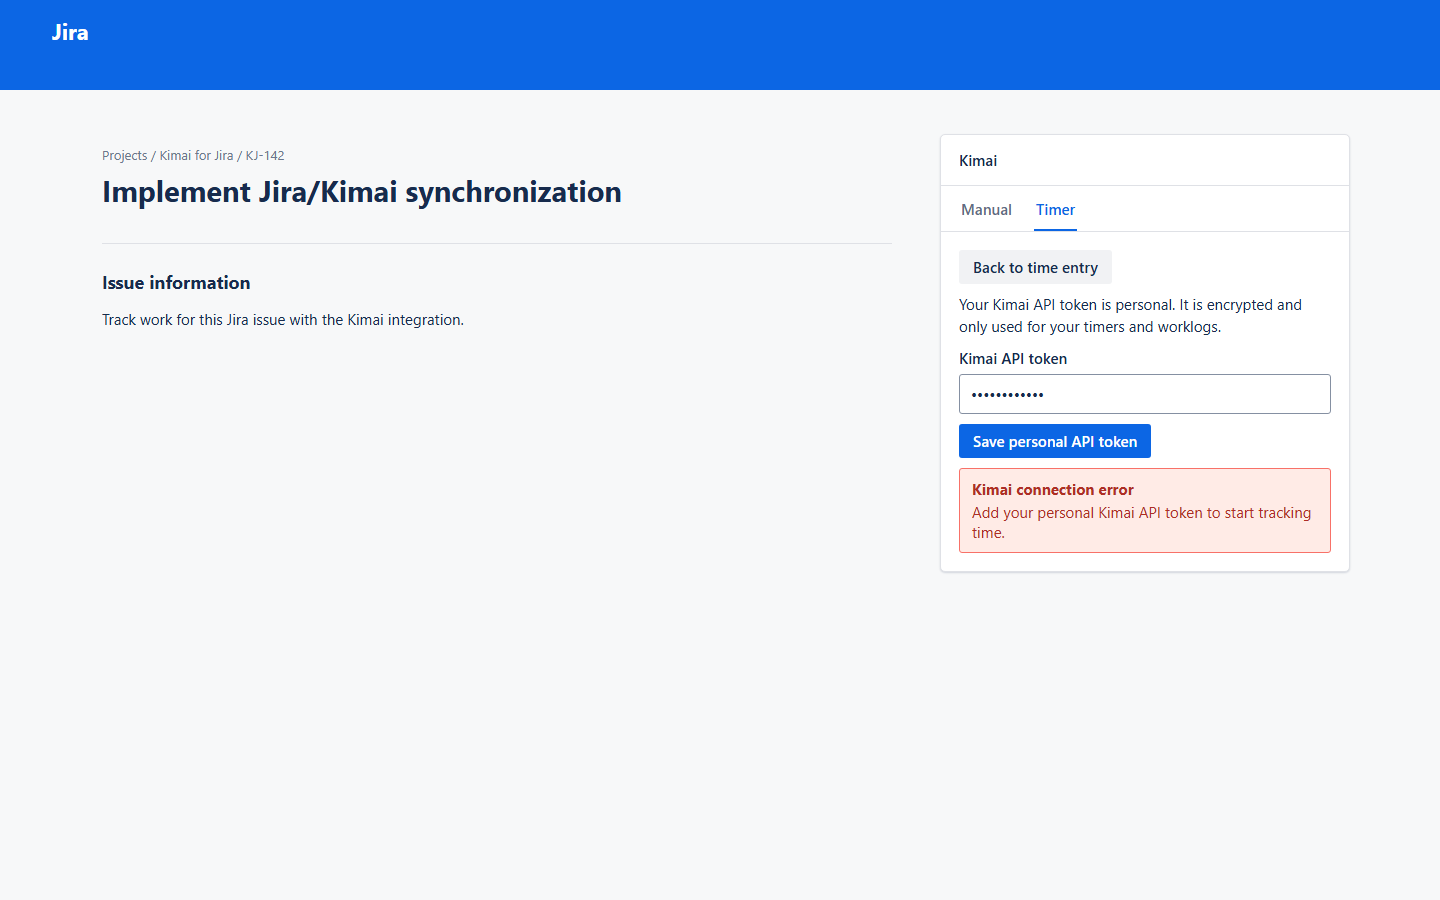
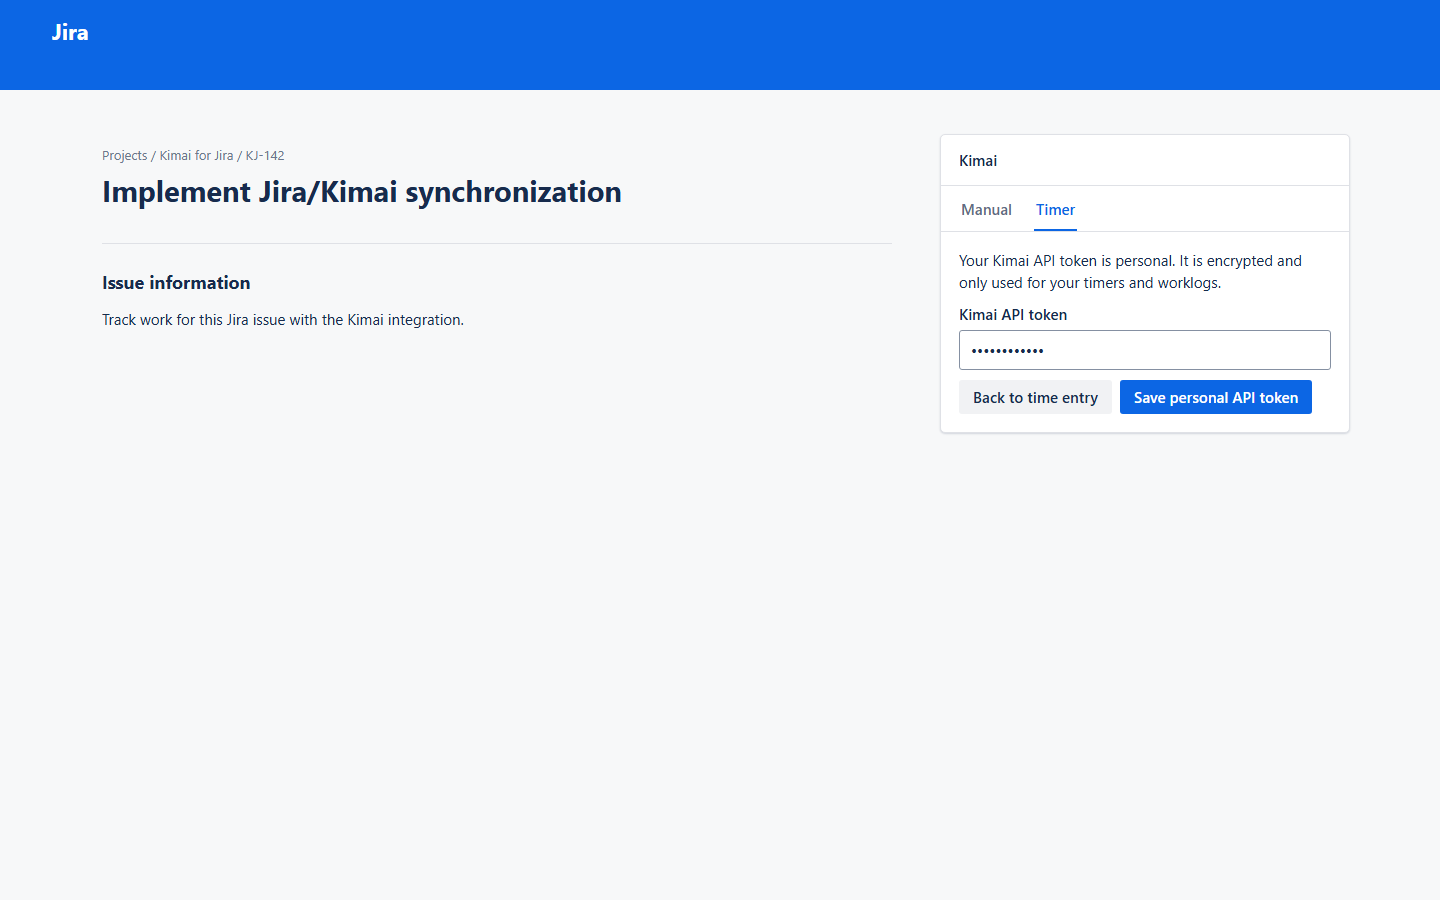
fix(connection): guide first-time setup

Changed region(s): [[0.6562, 0.4044, 0.9375, 0.5911], [0.6562, 0.28, 0.9062, 0.4044]]

diff --git a/src/frontend/issue-context/IssueContextView.tsx b/src/frontend/issue-context/IssueContextView.tsx
@@ -195,7 +195,7 @@ export const IssueContextView = ({
                 hasPersonalToken={false}
                 isManagingConnection={isManagingConnection}
                 isPending={isPersonalConnectionPending}
-                message={personalConnectionMessage ?? 'Add your personal Kimai API token to start tracking time.'}
+                message={personalConnectionMessage}
                 onManage={onManageConnection}
                 onBack={onConnectionBack}
                 onReset={onResetPersonalToken}
@@ -350,7 +350,12 @@ function ManualTimeEntry({
         <Label labelFor="manual-total-duration">Total duration</Label>
         <Textfield id="manual-total-duration" isDisabled value={totalDuration} />
       </FormSection>
-      {blockingReason && <Text>Add time is unavailable: {blockingReason}</Text>}
+      {!state.personalTokenConfigured && (
+        <SectionMessage appearance="warning" title="Connect Kimai before adding time">
+          Add your personal Kimai API token to enable manual time entries.
+          <Button appearance="subtle" onClick={onManageConnection}>Connect Kimai</Button>
+        </SectionMessage>
+      )}
       <Tooltip content={blockingReason ?? 'Add this time entry to Kimai.'}>
         <Box>
           <LoadingButton
@@ -432,7 +437,6 @@ function PersonalKimaiConnection({
   }
   return (
     <Stack space="space.100">
-      <Button appearance="subtle" isDisabled={isPending} onClick={onBack}>Back to time entry</Button>
       <Text>Your Kimai API token is personal. It is encrypted and only used for your timers and worklogs.</Text>
       <FormSection>
         <Label labelFor="personal-kimai-token">Kimai API token</Label>
@@ -443,7 +447,10 @@ function PersonalKimaiConnection({
           onChange={(event: { target: { value?: unknown } }) => onTokenChange(String(event.target.value ?? ''))}
         />
       </FormSection>
-      <LoadingButton appearance="primary" isDisabled={isPending || !token} isLoading={isPending} onClick={onSave}>Save personal API token</LoadingButton>
+      <Inline space="space.100">
+        <Button appearance="subtle" isDisabled={isPending} onClick={onBack}>Back to time entry</Button>
+        <LoadingButton appearance="primary" isDisabled={isPending || !token} isLoading={isPending} onClick={onSave}>Save personal API token</LoadingButton>
+      </Inline>
       {hasPersonalToken && <Button isDisabled={isPending} onClick={onReset}>Reset API key</Button>}
       {message && <SectionMessage appearance={message.startsWith('Connected') ? 'success' : 'error'} title={message.startsWith('Connected') ? 'Kimai connected' : 'Kimai connection error'}>{message}</SectionMessage>}
     </Stack>

diff --git a/src/frontend/issue-context/index.tsx b/src/frontend/issue-context/index.tsx
@@ -85,6 +85,10 @@ const App = () => {
         setRunningTimesheet(timerState.runningTimesheet);
         setSelectedKimaiCustomerId(timerState.defaultKimaiCustomerId);
         setManualDescription(defaultManualDescription(timerState));
+        if (!timerState.personalTokenConfigured) {
+          setActiveTab('timer');
+          setIsManagingConnection(true);
+        }
       })
       .catch(() => setError('Unable to load the Kimai timer status.'));
   }, []);
@@ -170,6 +174,7 @@ const App = () => {
       setManualDescription(defaultManualDescription(nextState));
       setPersonalApiToken('');
       setIsManagingConnection(false);
+      setActiveTab('manual');
       setPersonalConnectionMessage(`Connected to Kimai as ${result.user?.username ?? 'your user'}.`);
     } catch (connectionError) {
       setPersonalConnectionMessage(`Unable to save your Kimai API token: ${String(connectionError)}`);
@@ -194,7 +199,8 @@ const App = () => {
       });
       setRunningTimesheet(undefined);
       setPersonalApiToken('');
-      setIsManagingConnection(false);
+      setIsManagingConnection(true);
+      setActiveTab('timer');
       setPersonalConnectionMessage('Your personal Kimai API token has been reset.');
     } catch (connectionError) {
       setPersonalConnectionMessage(`Unable to reset your Kimai API token: ${String(connectionError)}`);
